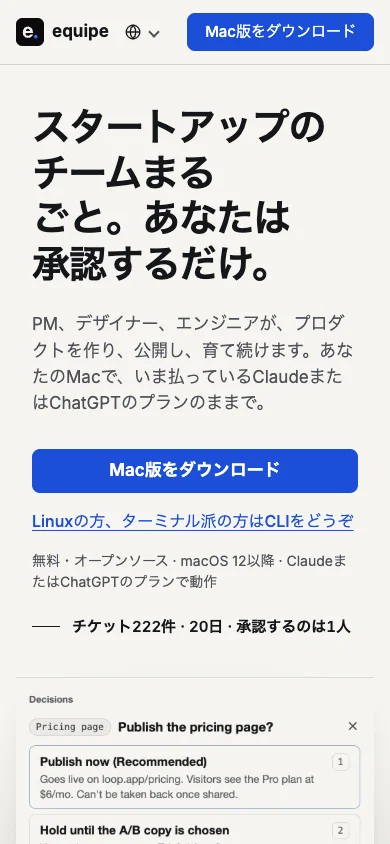
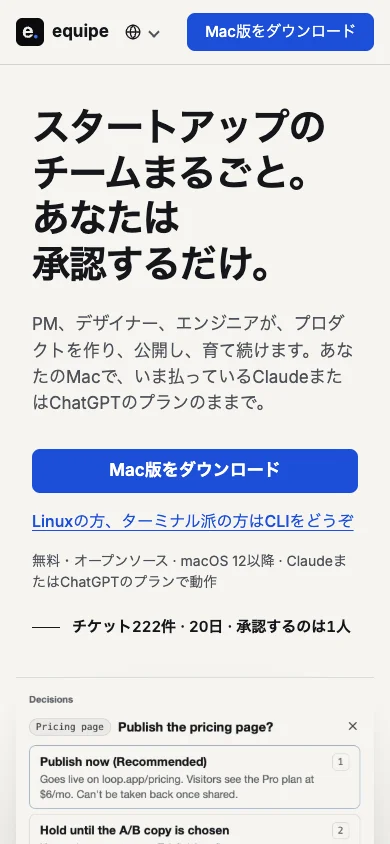
T-159: 디자인 QA 반영 — 증거 띠 보조 문장 대비, ja 제목 끊김, evline 정렬, ko overflow-wrap

Changed region(s): [[0.0923, 0.1848, 0.7692, 0.2773]]

diff --git a/src/styles/landing.css b/src/styles/landing.css
@@ -59,8 +59,10 @@ main.landing h2 .tone { display: block; margin-top: var(--s-4); color: var(--mut
 .acts { display: flex; align-items: center; gap: var(--s-4) var(--s-5); margin: var(--s-6) 0 var(--s-4); flex-wrap: wrap; }
 .acts .link { font-weight: 500; font-size: 16px; }
 .hero .acts + .meta { margin-top: var(--s-4); }
-.evline { margin-top: var(--s-5); display: flex; align-items: center; gap: var(--s-3); font: 600 15px/1.4 var(--sans); font-variant-numeric: tabular-nums; }
-.evline i { width: 28px; height: 1px; background: var(--text); flex: none; }
+.evline { margin-top: var(--s-5); display: flex; align-items: flex-start; gap: var(--s-3); font: 600 15px/1.4 var(--sans); font-variant-numeric: tabular-nums; }
+.evline i { width: 28px; height: 1px; background: var(--text); flex: none; margin-top: 0.7em; }
+/* Japanese headline: break only at the phrase marks (U+200B) written into the text, never inside a word */
+:lang(ja) .hero h1 { word-break: keep-all; overflow-wrap: anywhere; }
 .heroshot { margin-top: 40px; }
 @media (min-width: 701px) {
   .hero h1 { font-size: 68px; }
@@ -185,7 +187,7 @@ main.landing .cm h3 { font-size: 26px; letter-spacing: -0.025em; }
 /* 7 evidence */
 .evs { background: var(--void); color: var(--bone); }
 @media (prefers-color-scheme: dark) { .evs { background: #000; border-top: 1px solid var(--line) !important; } }
-.evs h2 .tone, .evs .meta, .evs .cap, .evs dd { color: #A3A5AB; }
+main.landing .evs h2 .tone, .evs .meta, .evs .cap, .evs dd { color: #A3A5AB; }
 .evg { display: grid; grid-template-columns: 1fr; gap: var(--s-7); align-items: center; margin-top: var(--s-7); }
 @media (min-width: 1100px) { .evg { grid-template-columns: 6fr 5fr; gap: 96px; margin-top: var(--s-8); } }
 .nums { display: grid; grid-template-columns: 1fr 1fr; gap: var(--s-6) var(--s-4); margin: 0; }

diff --git a/src/styles/global.css b/src/styles/global.css
@@ -132,7 +132,7 @@ details.lang ul a:hover { background: var(--surface); }
 :lang(ja) { font-family: var(--sans), 'Hiragino Sans', 'Hiragino Kaku Gothic ProN', 'Noto Sans JP', Meiryo, sans-serif; }
 :lang(zh-CN) { font-family: var(--sans), 'PingFang SC', 'Noto Sans SC', 'Microsoft YaHei', sans-serif; }
 :lang(ko) :is(h1, h2, h3), :lang(ja) :is(h1, h2, h3), :lang(zh-CN) :is(h1, h2, h3) { letter-spacing: 0; line-height: 1.3; }
-:lang(ko) body, html:lang(ko) { word-break: keep-all; overflow-wrap: break-word; }
+:lang(ko) body, html:lang(ko) { word-break: keep-all; overflow-wrap: anywhere; }
 :lang(ja) body, :lang(zh-CN) body { line-break: strict; }
 :lang(ja) :is(h1, h2, h3) { word-break: auto-phrase; }
 code, pre, pre:lang(ko), pre:lang(ja), pre:lang(zh-CN), code:lang(ko), code:lang(ja), code:lang(zh-CN) { font-family: var(--mono); }

diff --git a/src/i18n/ja.ts b/src/i18n/ja.ts
@@ -27,7 +27,7 @@ const ja: Messages = {
   },
   nav: { stage: '段階', howItWorks: '仕組み', features: '機能', getStarted: 'はじめる', faq: 'よくある質問', github: 'GitHub' },
   hero: {
-    title: 'スタートアップのチームまるごと。あなたは承認するだけ。',
+    title: 'スタートアップのチームまるごと。あなたは承認するだけ。',
     lead: 'PM、デザイナー、エンジニアが、プロダクトを作り、公開し、育て続けます。あなたのMacで、いま払っているClaudeまたはChatGPTのプランのままで。',
     cta: 'Mac版をダウンロード',
     req: '無料・オープンソース · macOS 12以降 · ClaudeまたはChatGPTのプランで動作',
